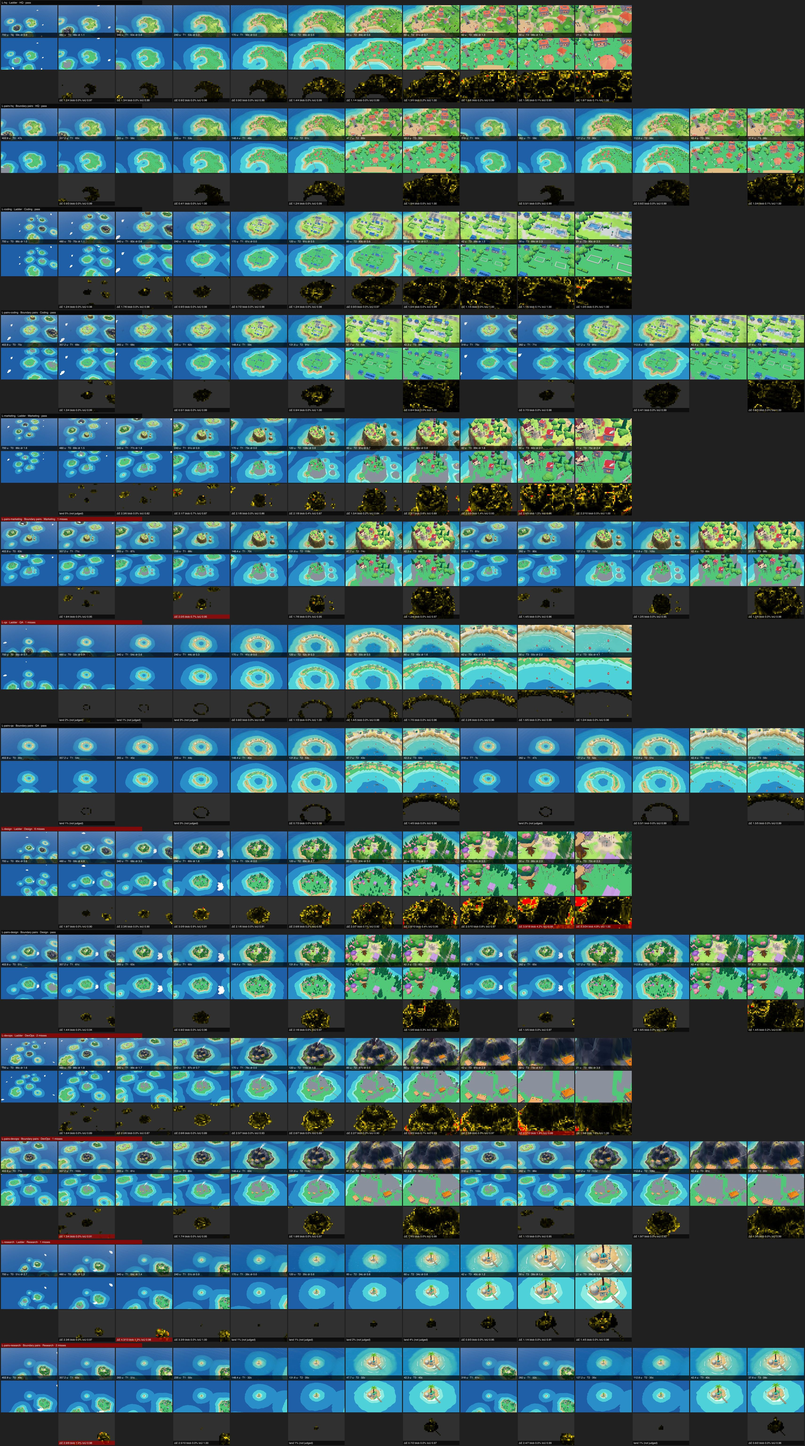
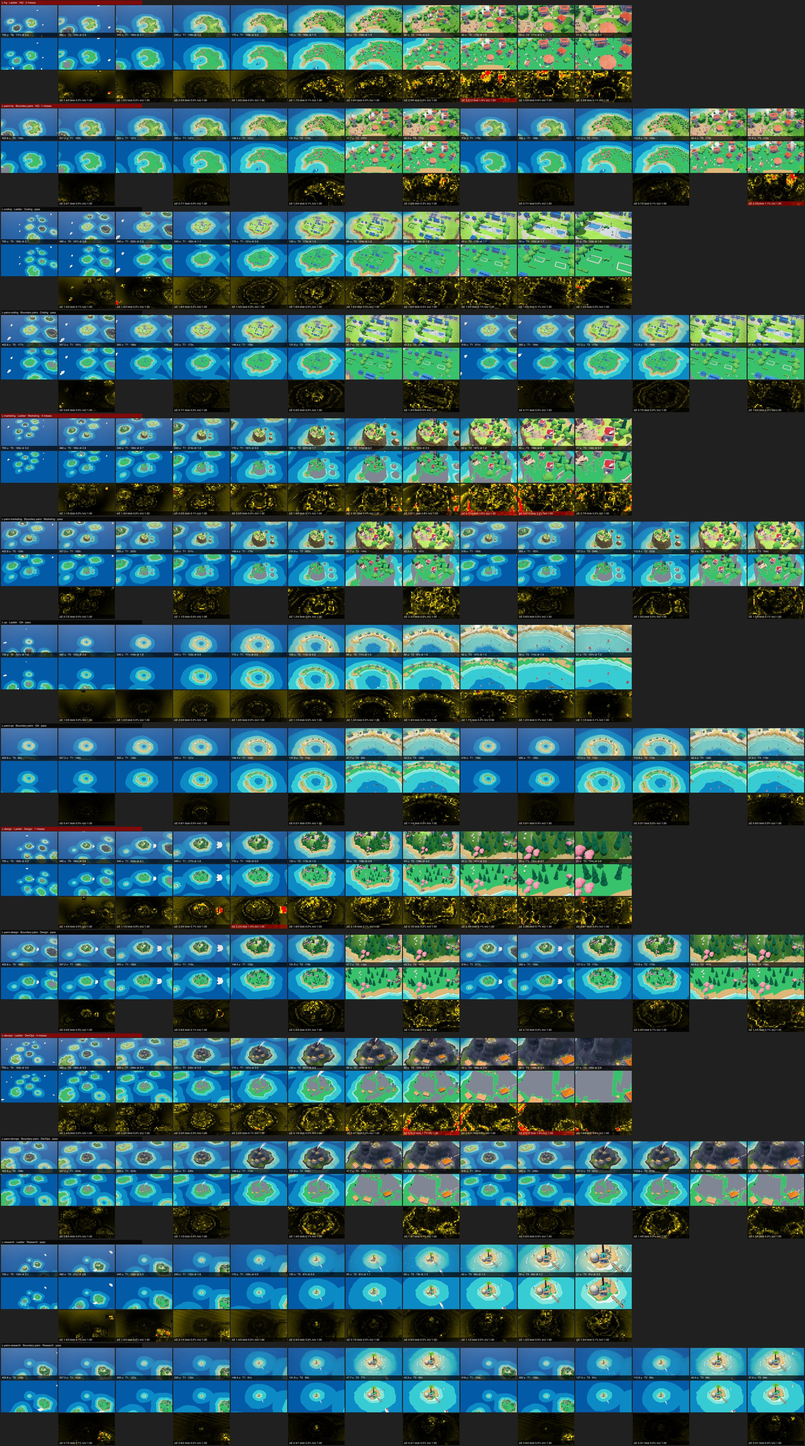
docs(qa): dev/wow --assert green, M14b ladder sheet refreshed — TASK-381 completed

diff --git a/mar-tasks/task-index.md b/mar-tasks/task-index.md
@@ -180,7 +180,7 @@ Details in `phases/phase-3.md`.
 | TASK-378 | Faithful LOD1 for office shells + landmarks (LOD0 colours, 1 LOD1 variant, tier 0) | props | M | COMPLETED | TASK-360 |
 | TASK-379 | Life by theme: sheep/crab/cat weights, WORK_SPOTS for new structures, stilt-lab deck reachability | life | S | COMPLETED | TASK-360 |
 | TASK-380 | Integration: shot presets / W-shots re-themed, EDIT_LOGS re-record, budgets check | engine | S | COMPLETED | TASK-361…379 |
-| TASK-381 | M14b QA: ladder ×7 islands × 3 qualities, 10-seed sweep, contact + ladder sheets | qa | M | IN_PROGRESS (ladder ×3, live, D-037, 10-seed sweep done; dev/wow --assert left) | TASK-380 |
+| TASK-381 | M14b QA: ladder ×7 islands × 3 qualities, 10-seed sweep, contact + ladder sheets | qa | M | COMPLETED | TASK-380 |
 | TASK-382 | Docs: ART_BIBLE, DECISIONS backfill D-024…D-027 + D-029…D-033, ARCHITECTURE §3/§4/§10, MEMORY, task-index (mark M14 COMPLETED) | docs | S | COMPLETED | TASK-381 |
 
 ### M14c — Living close-up

diff --git a/mar-docs/MEMORY.md b/mar-docs/MEMORY.md
@@ -27,7 +27,8 @@
   High after D-037: 12 misses (was 21); the remaining Marketing/DevOps/HQ step blobs are tall near-camera
   props sliding by parallax (lattice mast, cone), not pops — fix in the ladder camera or registration.
   10-seed sweep done 2026-10-10 (`--seed=N` added to shots; 30/30 ok, qa/sweep-2026-10-10.md).
-  **Next**: TASK-381 dev/wow `--assert` and the M14b contact sheet (then close it), then M15–M18.
+  TASK-381 COMPLETED 2026-10-10 (dev 32/32 + 6 self-tests, wow 10/10). **Next**: M15–M18 (phase-3 §8);
+  ladder follow-up: keep tall props out of the T3 ladder foreground or depth-aware registration.
 - **2026-10-06 (session close, orchestrator)**: Phase 3 M14 + M14b (theme-first redesign) + M14c (living
   close-up) are merged on `main` and pushed (Pages deployed). 1208 tests green; shots ci/dev/edit/wow
   green with `--assert`; new `live` set (`pnpm shots live --assert`): all 7 `L-live-<theme>` pass

diff --git a/mar-docs/qa/sweep-2026-10-10.md b/mar-docs/qa/sweep-2026-10-10.md
@@ -31,3 +31,14 @@ world hash per seed.
 - Shore: on several seeds (42, 1000, 2024, 5005) the frame is mostly a tree canopy over meadow and
   the bay. The 5005 foreground canopy fills the lower third. A framing nit (engine), not a defect.
 - Night village: dark tree mass dominates at this distance; lamp pools and windows still read.
+
+## Closing sets (2026-10-10)
+
+- `pnpm shots dev --assert`: 32/32 ok; self-tests regen, ctxloss, edit, regen@village, edit@village,
+  editpick all ok.
+- `pnpm shots wow --assert`: 10/10 ok.
+- `edit --assert` and `live --assert` green on 2026-10-09; ladder ×3 qualities in
+  `ladder-2026-10-09.md`. `../shots/M14b-ladder.jpg` refreshed from the high run after D-037.
+
+TASK-381 closed. Ladder misses left (all step blobs from near-camera parallax, plus Design 240→170 at
+the line and DevOps drift 85 u 4.08) move to the ladder-camera / registration follow-up.
